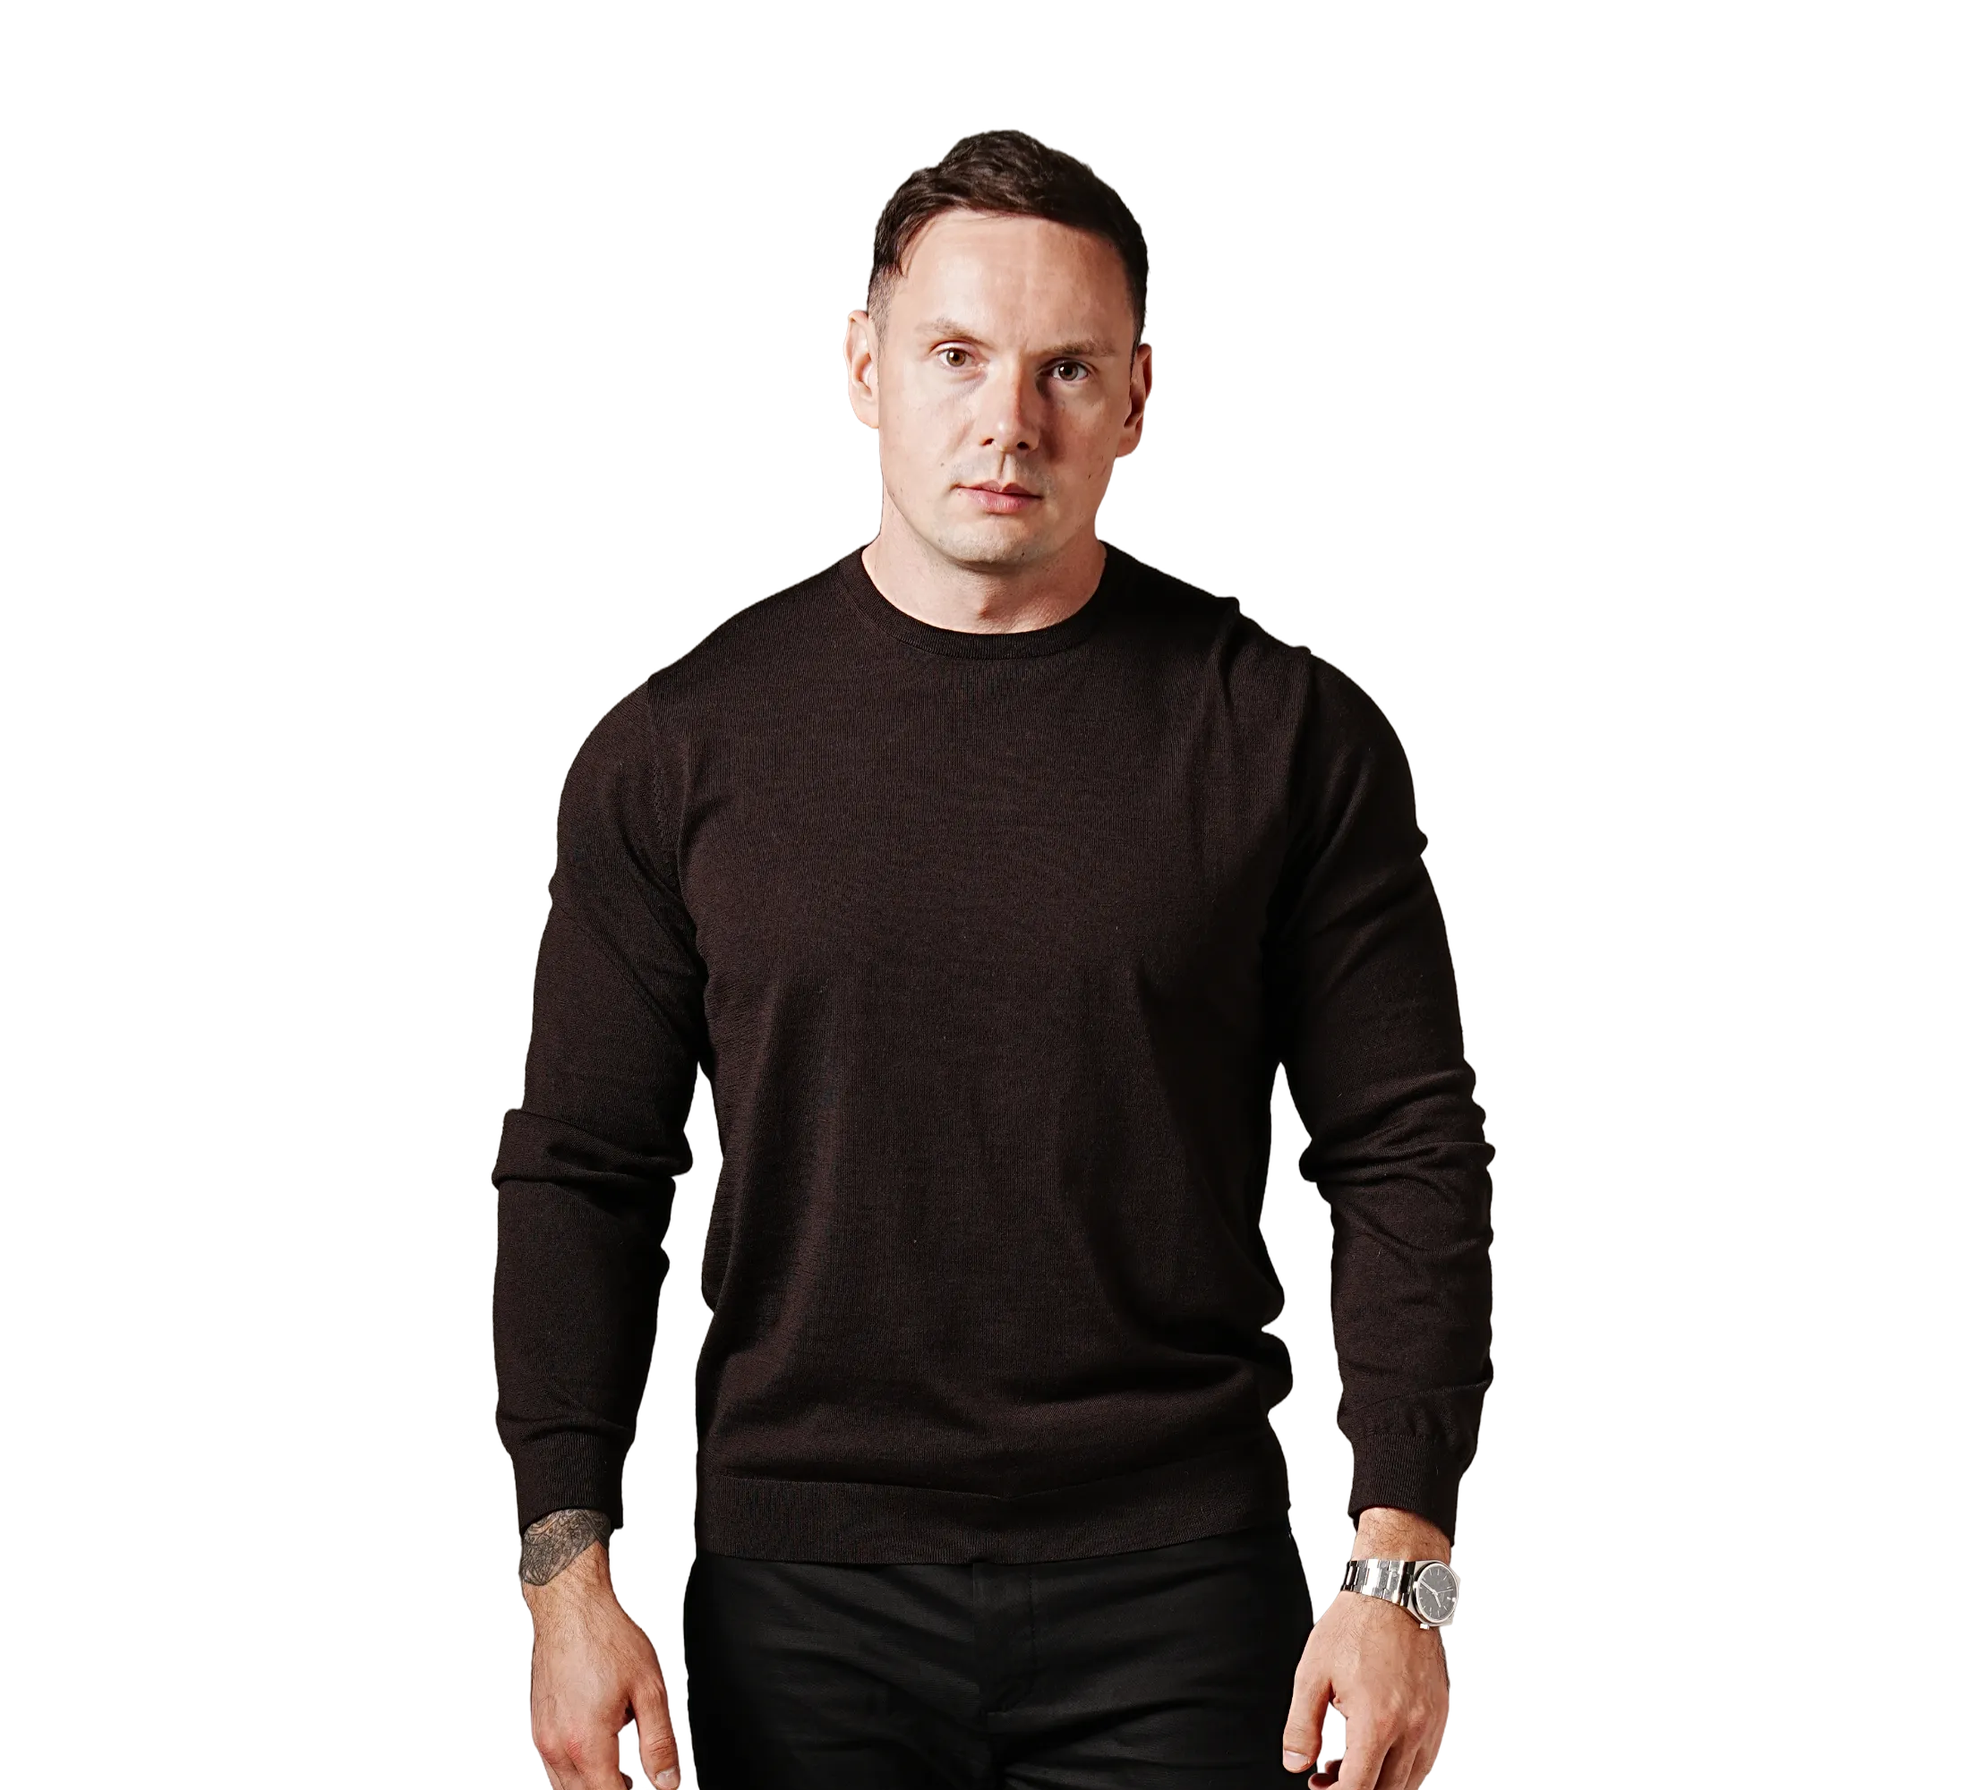
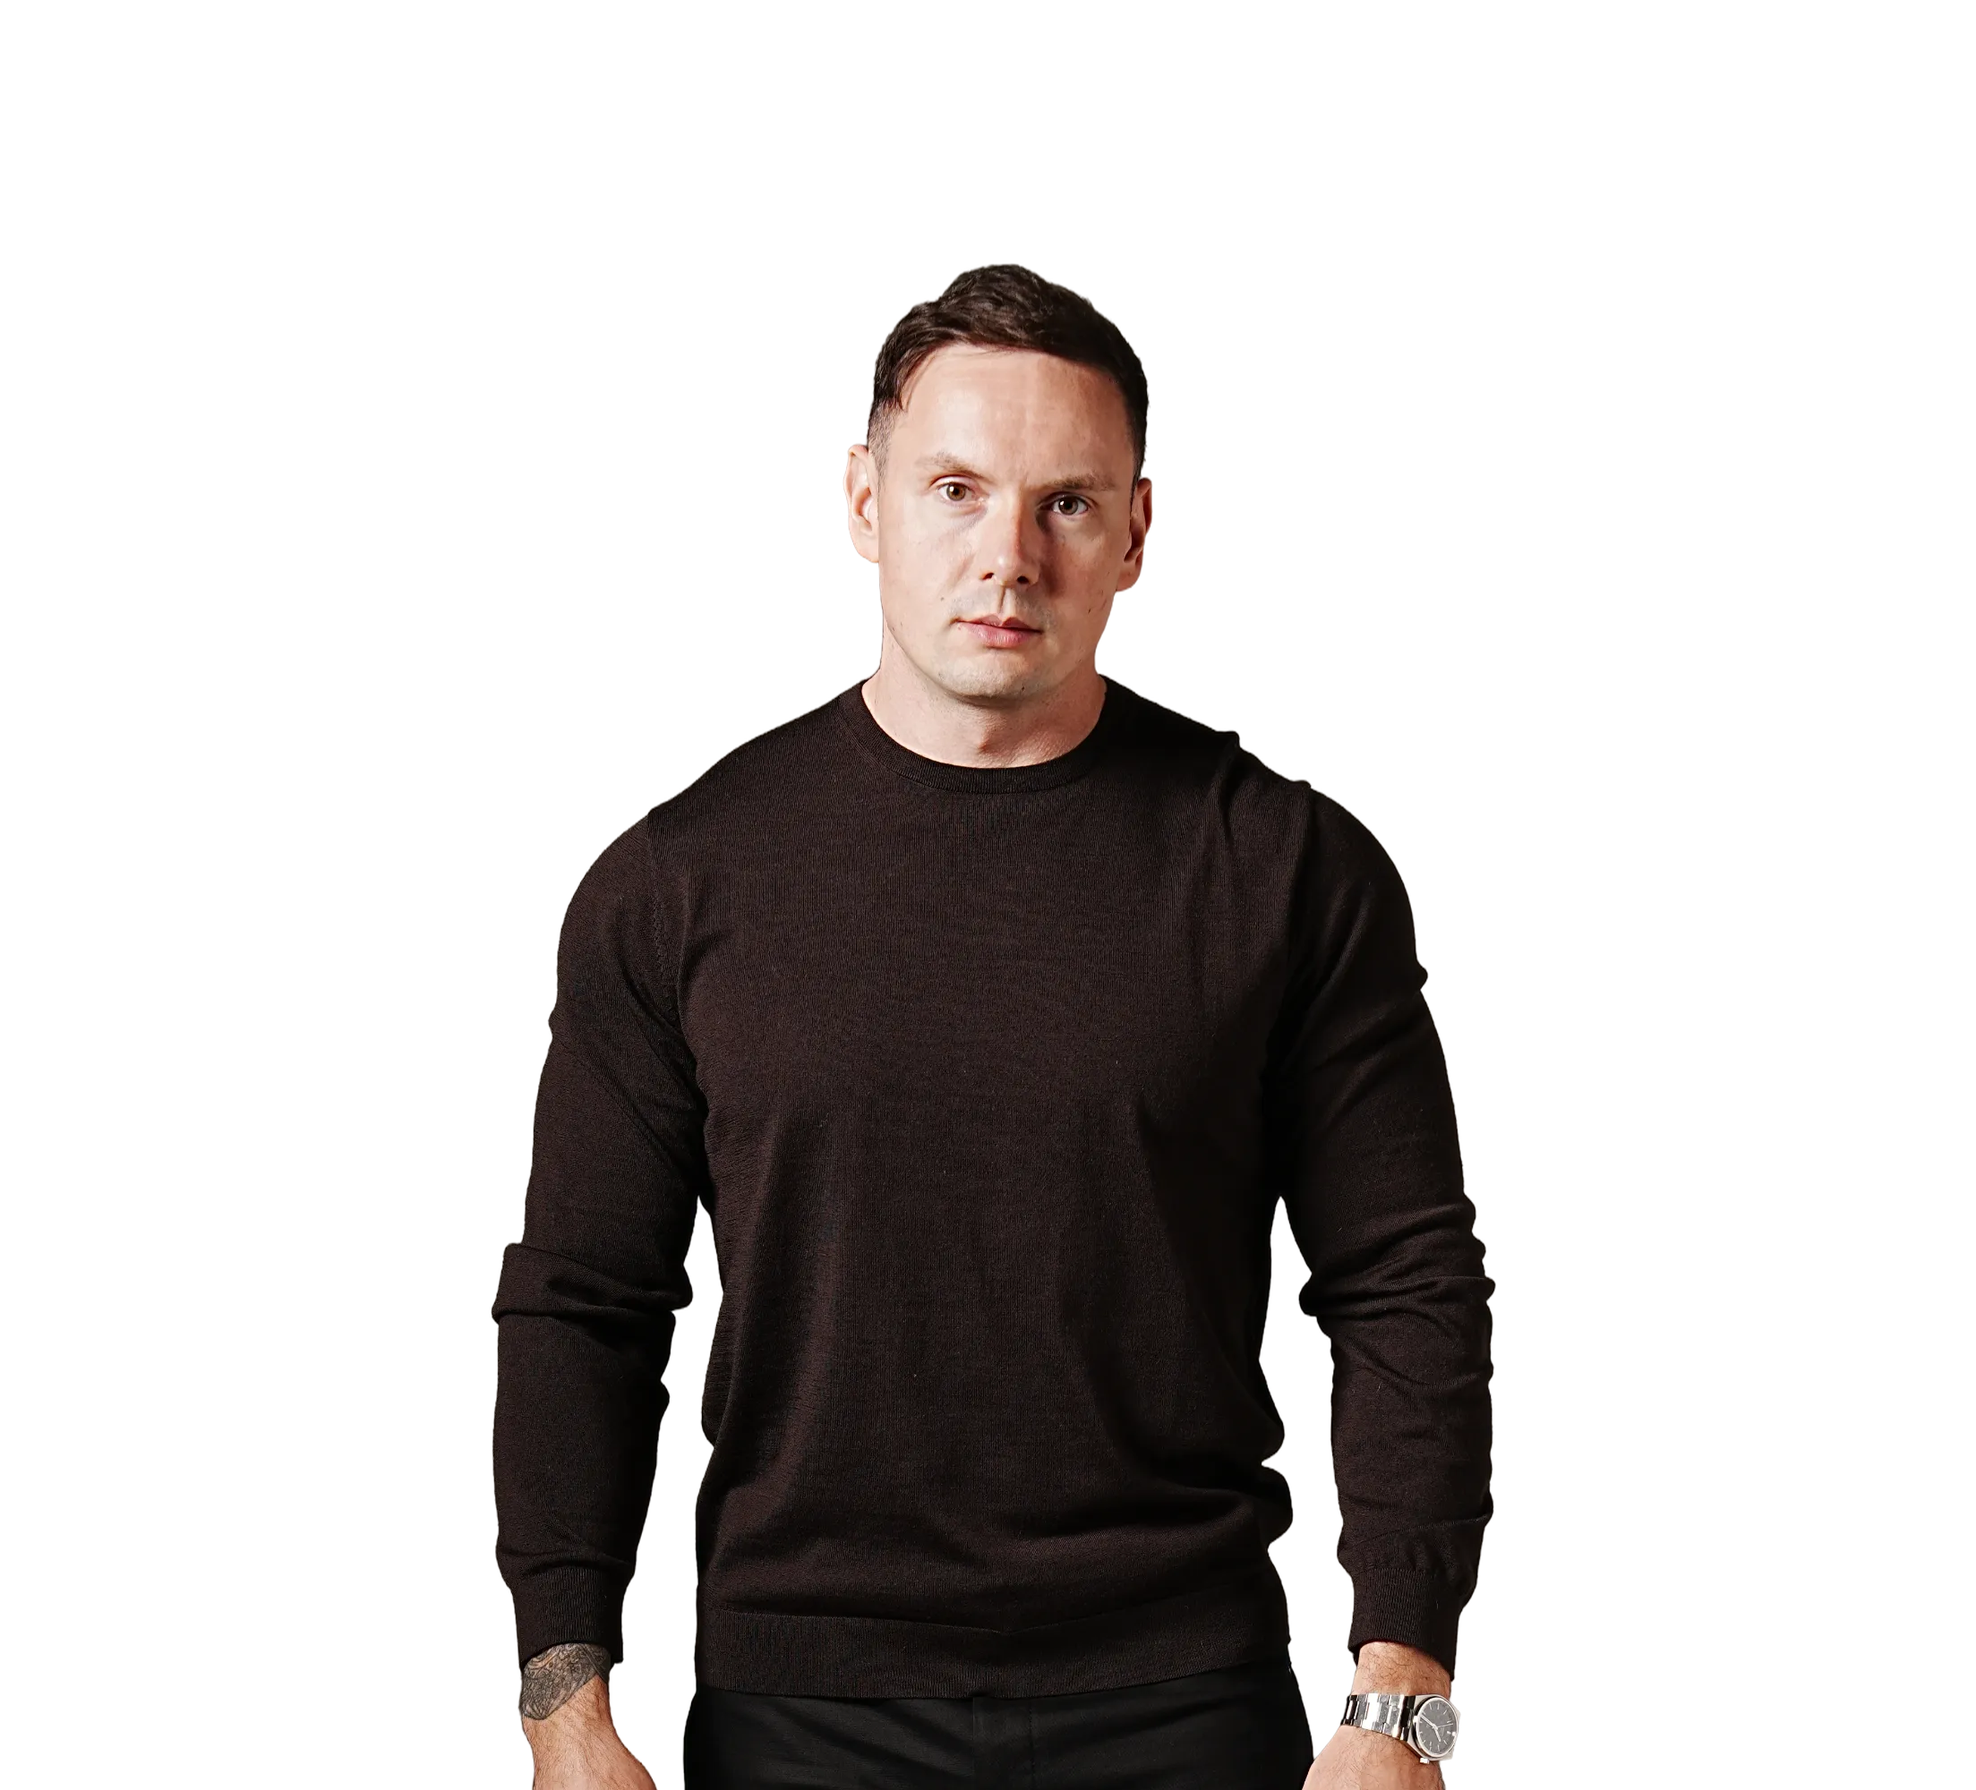
Позиціонування й упаковка в текстах, фото в секції про мене нижче

Changed region(s): [[0.2465, 0.062, 0.7703, 1.0], [0.5238, 0.992, 0.5546, 1.0]]

diff --git a/src/content/home.ts b/src/content/home.ts
@@ -122,7 +122,7 @@ export type Home = {
 export const home: Home = {
   hero: {
     heading: "Покажіть цифри, знайдемо, де ваш бізнес може заробляти більше",
-    lead: "Аналізую маркетинг, продажі, продукт і економіку як єдину систему, щоб визначити, що виправити, що посилити та куди інвестувати наступні ресурси.",
+    lead: "Перетворюю компанії на сильні бренди: позиціонування, стратегія, упаковка й продукт, за який платять більше. Від ідеї до запуску й зростання.",
     ctaHint: "Безкоштовно, 20–30 хвилин",
     ctaLabel: "Знайти, де заробити більше",
     stats: [
@@ -178,12 +178,12 @@ export const home: Home = {
       {
         title: "Посилити",
         lead: "Заробляти більше на тому, що вже працює.",
-        text: "Масштабувати прибуткові канали, збільшити середній чек, покращити продуктовий мікс, активувати клієнтську базу.",
+        text: "Посилити бренд і позиціонування, упакувати продукт сильніше, підняти середній чек, масштабувати прибуткові канали.",
       },
       {
         title: "Запустити",
         lead: "Створити нові джерела виручки.",
-        text: "Нові продукти, сегменти, партнерства, канали продажів або комерційні напрями.",
+        text: "Нові продукти, бренди, сегменти, партнерства, канали продажів або комерційні напрями.",
       },
     ],
   },
@@ -197,8 +197,8 @@ export const home: Home = {
       },
       {
         icon: "product",
-        title: "Продукт і ціни",
-        text: "Які продукти створюють прибуток? Що варто розвивати, перепакувати або прибрати?",
+        title: "Продукт і бренд",
+        text: "Чим ви відрізняєтесь від інших? Що додає продукту цінності й дозволяє продавати дорожче?",
       },
       {
         icon: "sales",
@@ -274,7 +274,7 @@ export const home: Home = {
         "Результат — це завжди робота команди. Моя зона відповідальності — зростання та комерційний розвиток",
       paragraphs: [
         "Я сам продавав, створював сайти, запускав маркетинг, будував комунікації, керував командами, працював із продуктами, цінами та новими напрямами.",
-        "Тому я дивлюся на бізнес не очима одного спеціаліста, а як на систему, де маркетинг, продажі, продукт і економіка безпосередньо впливають на результат.",
+        "Тому я дивлюся на бізнес як на систему. Моя найсильніша сторона: позиціонування, стратегія й упаковка. Вмію зробити зі звичайної компанії бренд, а з продукту те, за що клієнти готові платити більше.",
       ],
     },
   },
@@ -336,7 +336,7 @@ export const home: Home = {
         price: "Від $4 000 / місяць, від 3 місяців",
         paragraphs: [
           "Для компаній, яким потрібні не тільки рекомендації, а й управління їх реалізацією.",
-          "Працюю з власником і командою: пріоритети, люди, KPI, впровадження та контроль результатів. За перші 90 днів команда отримує чіткі пріоритети, відповідальних і регулярний контроль показників.",
+          "Працюю з власником і командою: позиціонування, продукт, пріоритети, люди, KPI та контроль результатів. За перші 90 днів команда отримує чіткі пріоритети, відповідальних і регулярний контроль показників.",
         ],
         buttonLabel: "Знайти, де заробити більше",
         note: "Мінімальний термін — 3 місяці. Формат і обсяг залученості погоджуємо на старті.",
@@ -346,6 +346,11 @@ export const home: Home = {
   faq: {
     items: [
       {
+        question: "Чи допомагаєте ви з брендом і упаковкою бізнесу?",
+        answer:
+          "Так, це те, що я роблю найсильніше. Визначаю позиціонування і стратегію, перезбираю продукт і пропозицію, додаю цінності, щоб зі звичайної компанії вийшов бренд, а клієнти були готові платити більше. Якщо для цього потрібні дизайнери чи інші підрядники, підбираю їх і контролюю результат.",
+      },
+      {
         question: "А якщо у нас немає якісної аналітики?",
         answer:
           "Працюємо з доступними даними. Якщо їх недостатньо для достовірного висновку — прямо це зазначаю і допомагаю закрити прогалину: визначаю, що потрібно вимірювати, пишу ТЗ, підбираю підрядника, допомагаю налаштувати аналітику та CRM і контролюю впровадження. Моя сильна сторона — побачити, чого бракує бізнесу для зростання, і закрити ці прогалини: правильними людьми, чіткими рекомендаціями або власним контролем.",
@@ -353,7 +358,7 @@ export const home: Home = {
       {
         question: "А якщо бізнес ще нічого не заробляє?",
         answer:
-          "Це не перешкода. Тоді шукаємо не втрати, а найкоротший шлях до перших продажів: кому продавати, що саме і за якою ціною. Обсяг роботи погоджуємо на знайомстві.",
+          "Тоді ми зберемо бізнес правильно з самого початку: позиціонування, стратегія, продукт, упаковка бренду й запуск. Обсяг роботи погоджуємо на першій розмові.",
       },
       {
         question: "Чи доведеться залучати всю команду?",

diff --git a/src/content/site.ts b/src/content/site.ts
@@ -30,7 +30,7 @@ export const site: Site = {
   role: "Growth Advisor",
   title: "Артур Жуков, Growth Advisor: де ваш бізнес може заробляти більше",
   description:
-    "Аналізую маркетинг, продажі, продукт і економіку як єдину систему, щоб визначити, що виправити, що посилити та куди інвестувати наступні ресурси.",
+    "Перетворюю компанії на сильні бренди: позиціонування, стратегія, упаковка й продукт, за який платять більше. Від ідеї до запуску й зростання.",
   shareImageAlt: "Артур Жуков, Growth Advisor. Покажіть цифри, знайдемо, де ваш бізнес може заробляти більше",
   contacts: {
     telegram: "https://t.me/zhukov_9999",
